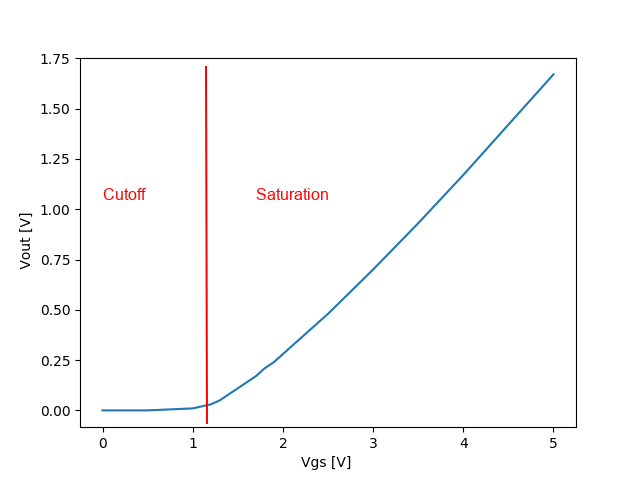
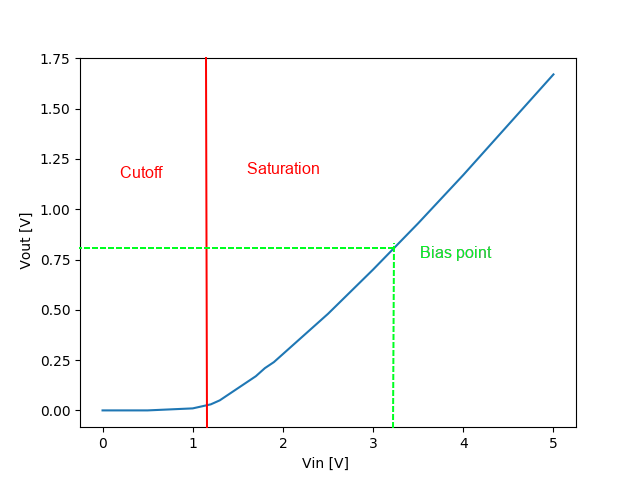
updated cda

diff --git a/Spring2017/Lab2/conclusions/common_drain_amplifier_conc.tex b/Spring2017/Lab2/conclusions/common_drain_amplifier_conc.tex
@@ -1,0 +1,1 @@
+The common drain amplifier essentially follows the trend of the input voltage at the gate, $V_{in}$. It starts in the cutoff region since the input voltage is too low to form the channel. However, as the input is increased, the current flows, and an output voltage develops over the resistor. It transitions from cutoff to saturation to triode, but does not reach triode in the range of voltages considered. The proper bias point occurs in the middle of the saturation region since the slope is steepest. Moreover, biasing the amplifier in the saturation region leads to high linearity in the output of the amplifier.

diff --git a/Spring2017/Lab2/conclusions/common_drain_amplifier_conc_wrap.tex b/Spring2017/Lab2/conclusions/common_drain_amplifier_conc_wrap.tex
@@ -1,0 +1,5 @@
+\documentclass{article}
+\input{../preamble.tex}
+\begin{document}
+\input{common_drain_amplifier_conc.tex}
+\end{document}

diff --git a/Spring2017/Lab2/common_drain_amplifier/common_drain_amplifier.tex b/Spring2017/Lab2/common_drain_amplifier/common_drain_amplifier.tex
@@ -58,4 +58,4 @@ By design, $V_{in}$ never exceeds $5$\si{\volt}. So, the transistor transitions 
 
 \FloatBarrier
 
-% Bias point???
+
